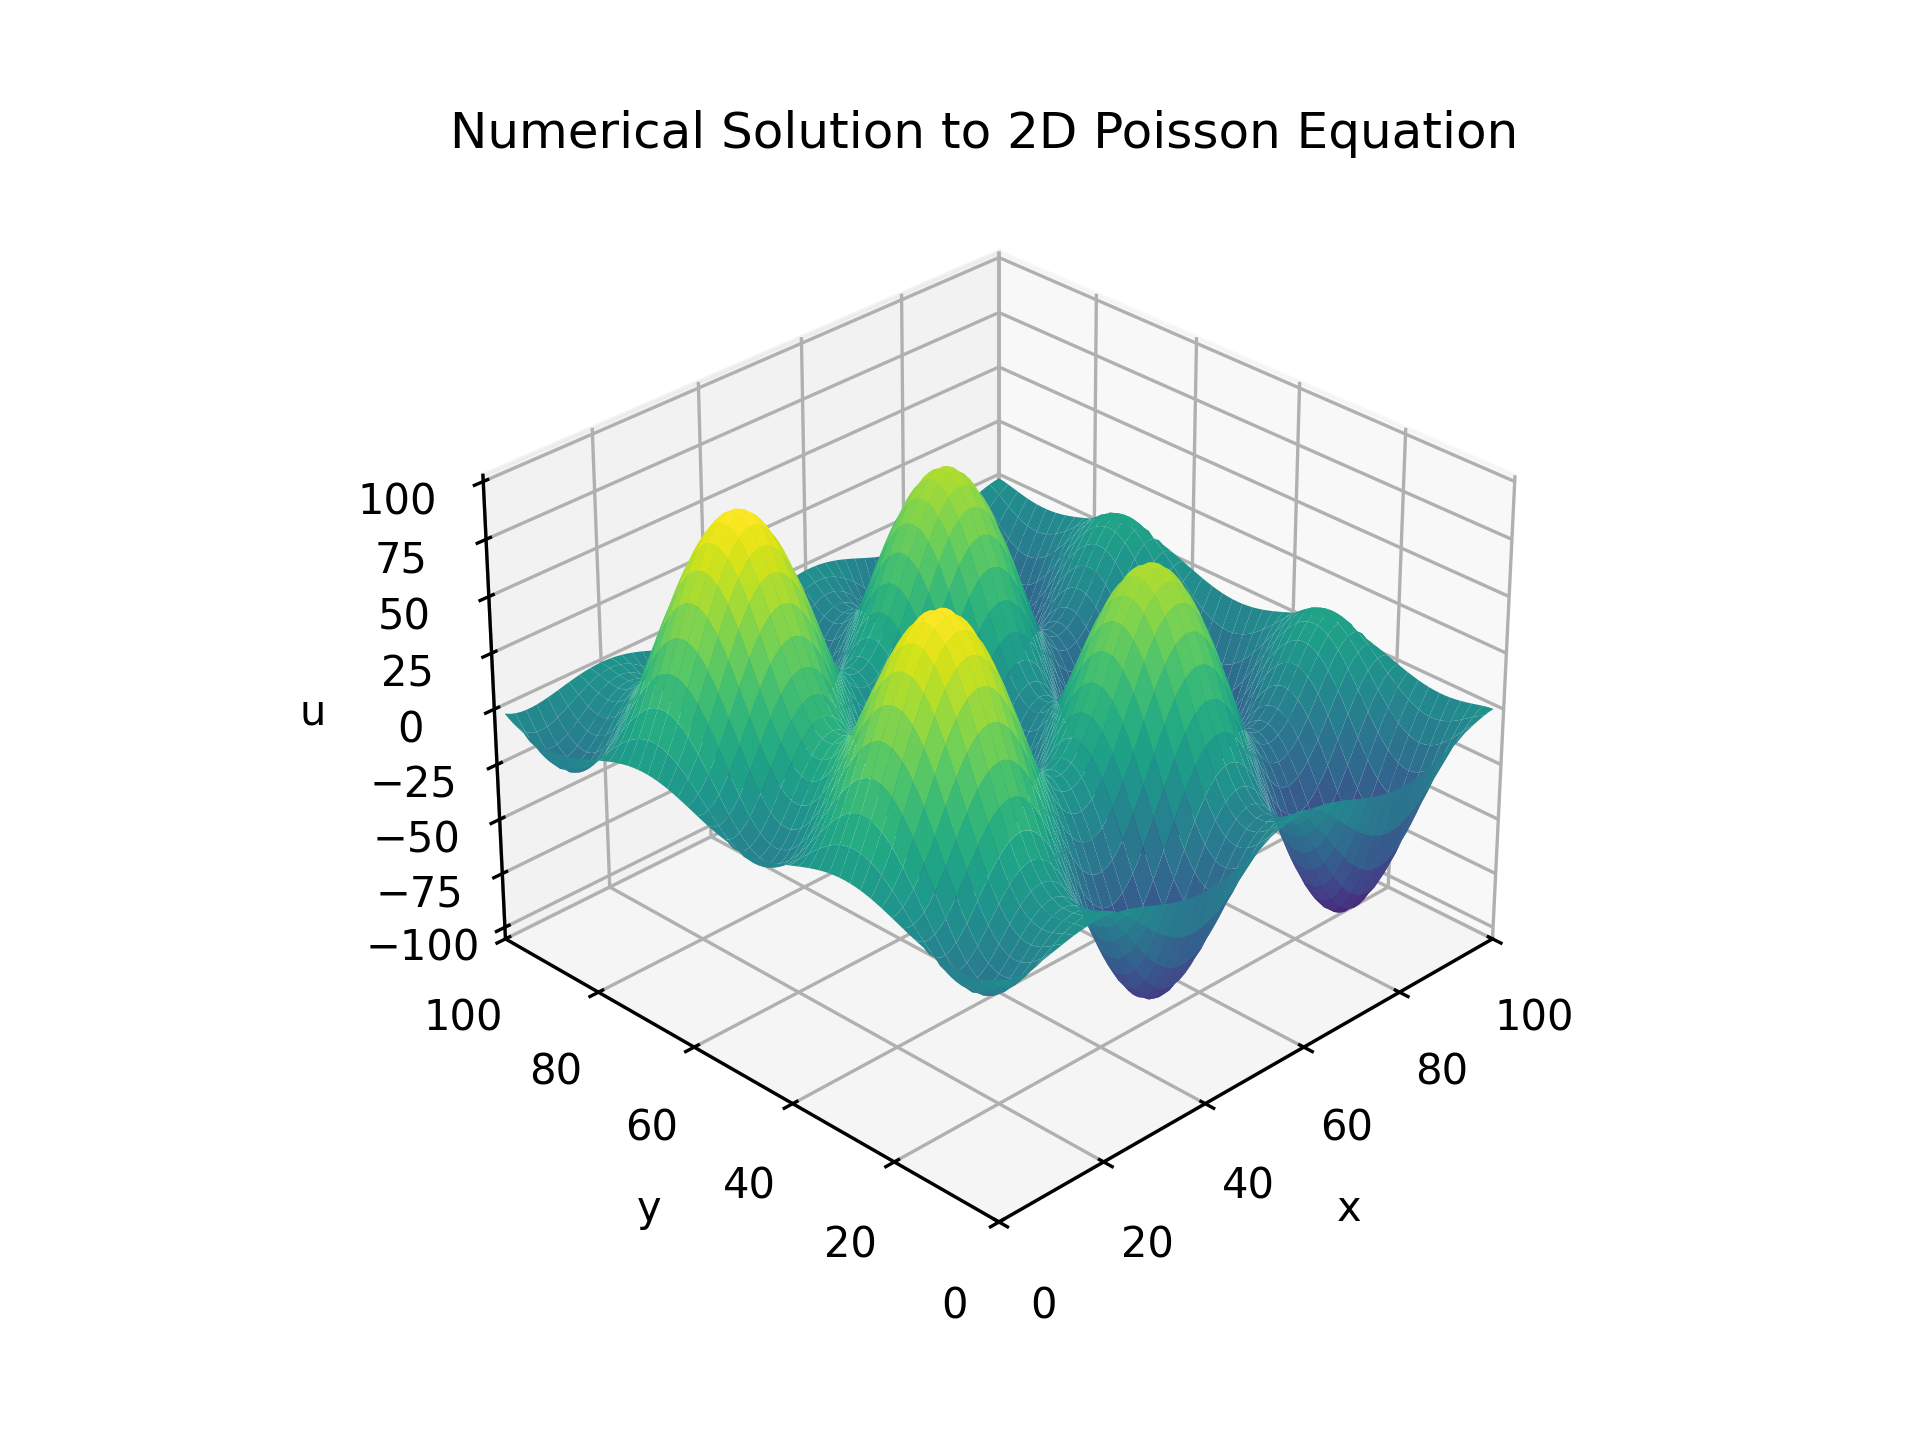
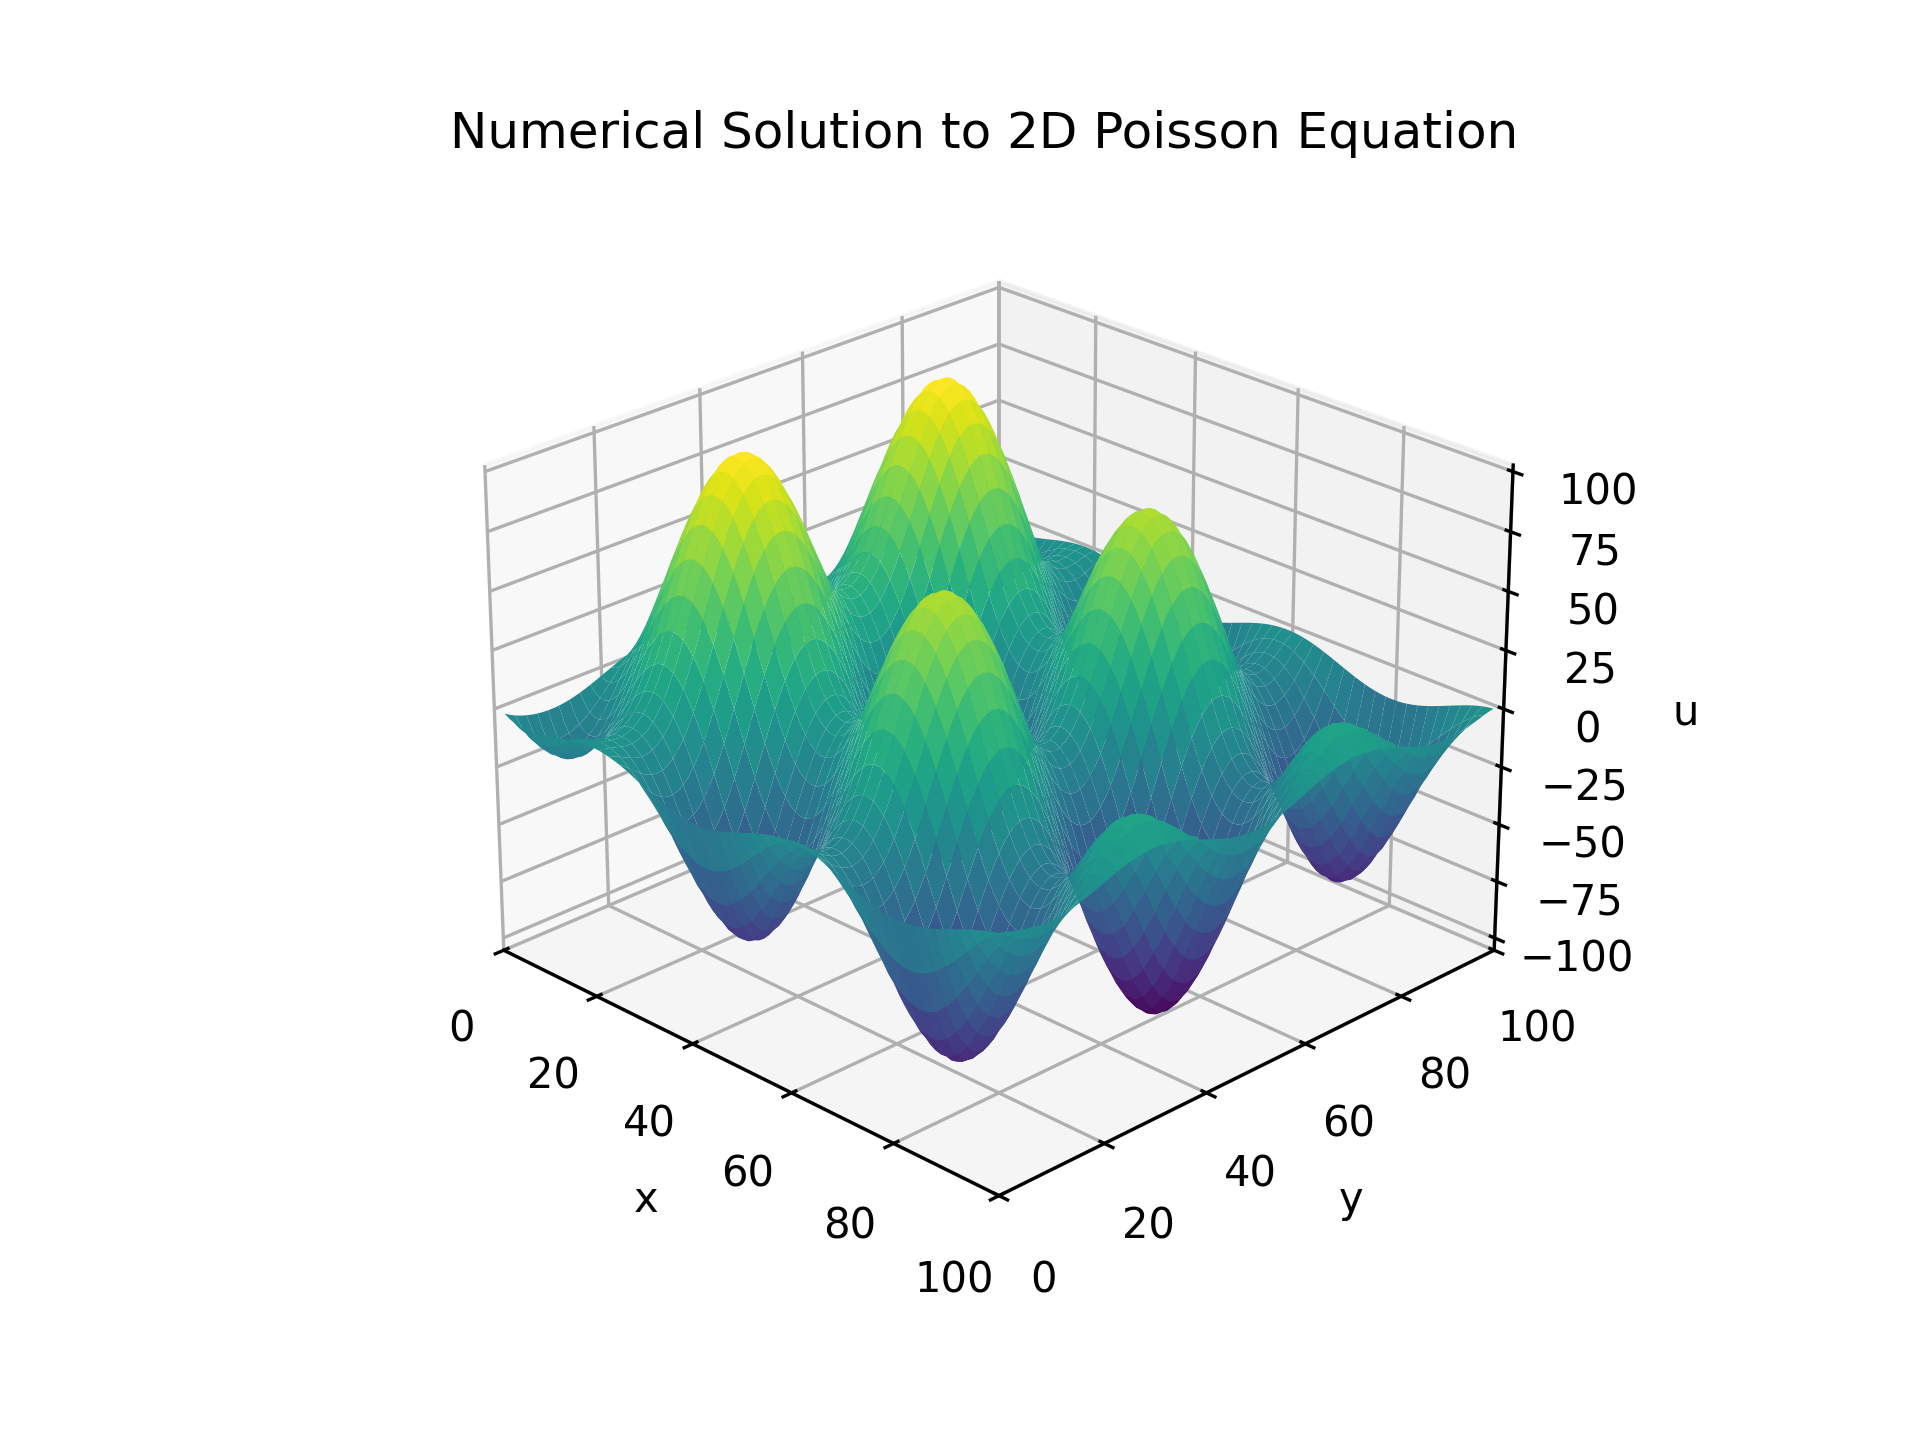
better 2D Poisson sim image

diff --git a/FDM/2D_poisson.py b/FDM/2D_poisson.py
@@ -50,7 +50,7 @@ ax.set_zlabel("u")
 
 ax.set_xlim(0, Lx)
 ax.set_ylim(0, Ly)
-ax.view_init(30, 225, 0)
+ax.view_init(25, -45, 0)
 plt.savefig("2D_poisson.png", dpi=300)
 plt.show()
 
